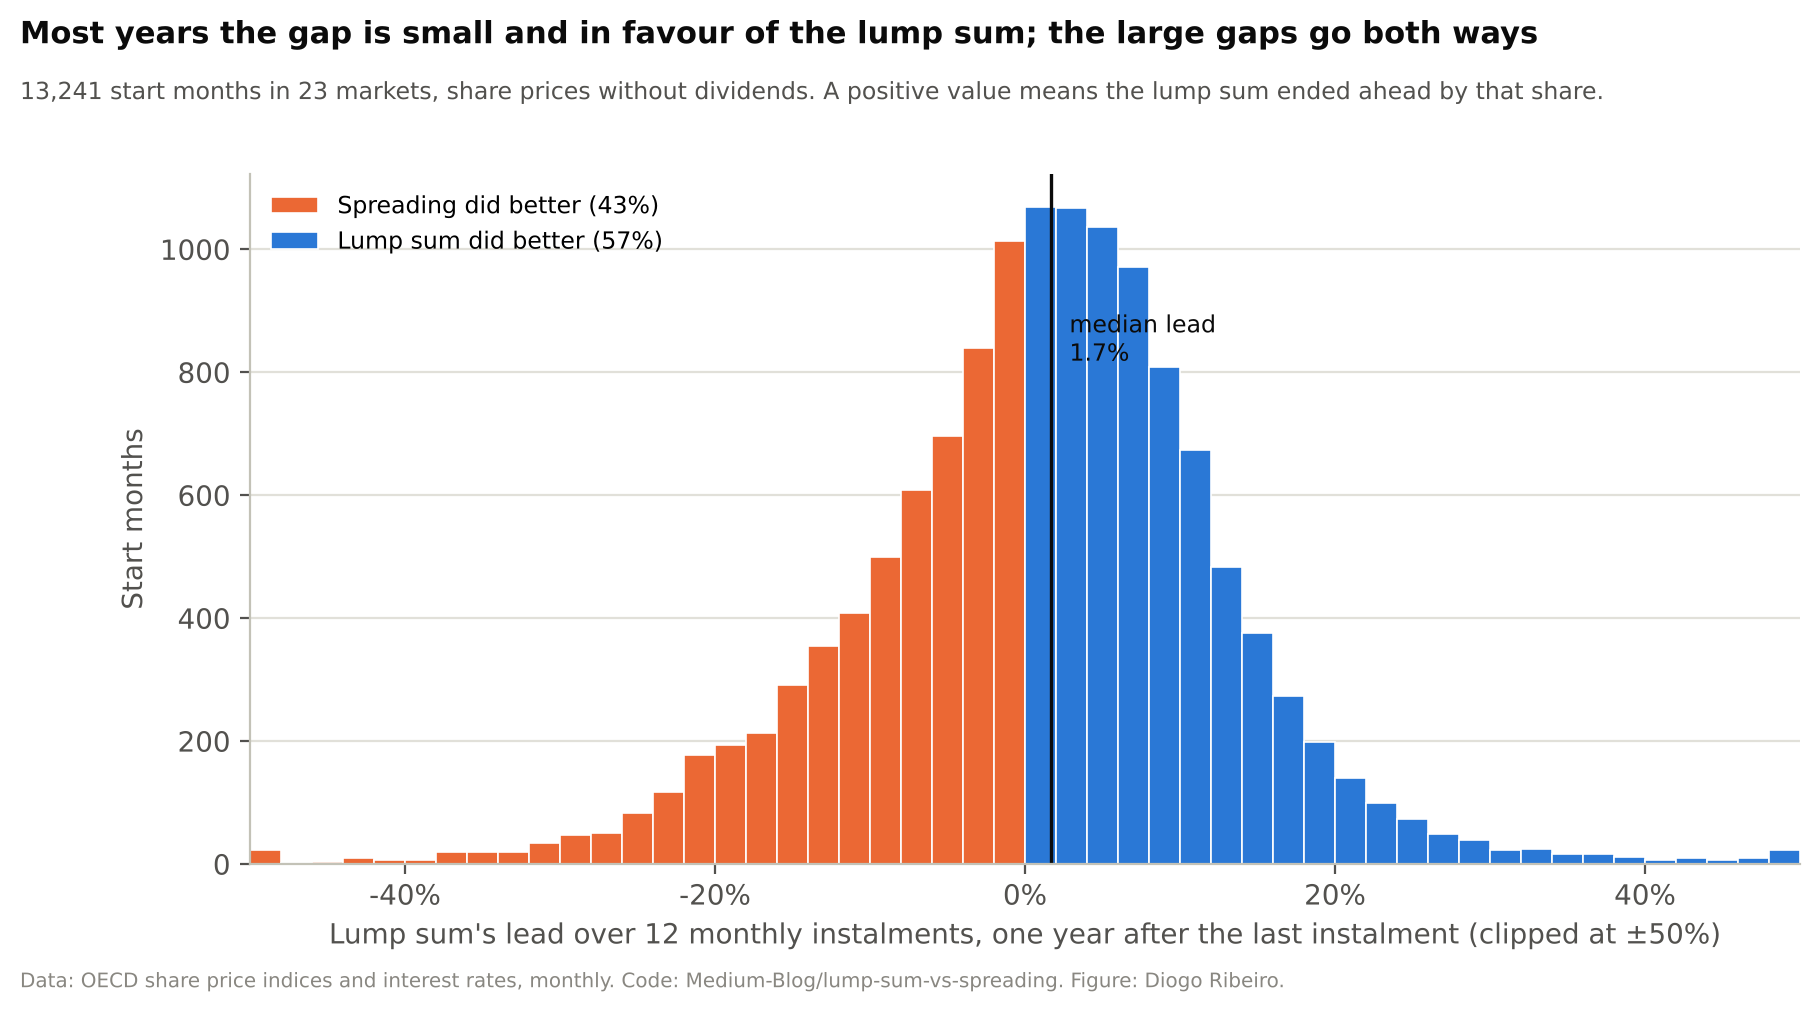
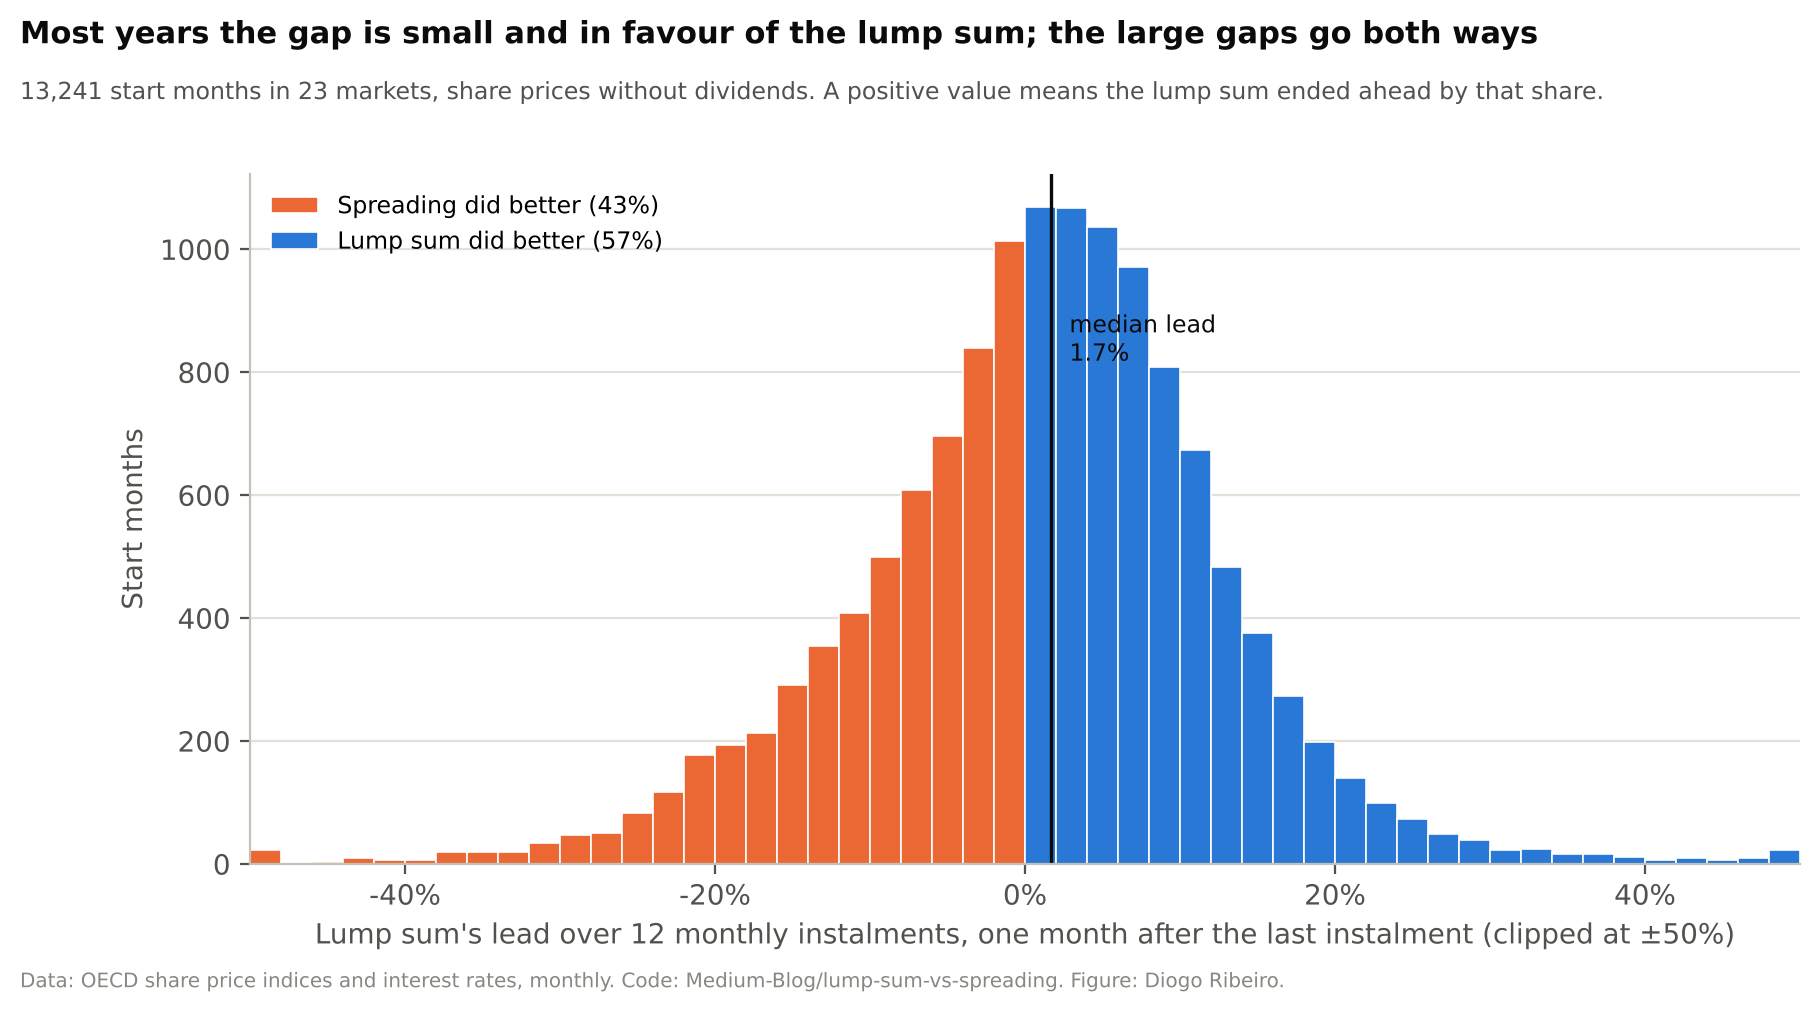
lump-sum-vs-spreading: label the comparison one month after the last instalment

Changed region(s): [[0.1846, 0.919, 0.9538, 0.9496]]

diff --git a/lump-sum-vs-spreading/figures.py b/lump-sum-vs-spreading/figures.py
@@ -83,7 +83,7 @@ def fig1_countries():
     ax.set_ylim(-0.7, len(c) + 0.2)
     percent(ax, "x")
     grid(ax, "x")
-    ax.set_xlabel("Start months in which the lump sum was ahead one year after the last instalment")
+    ax.set_xlabel("Start months in which the lump sum was ahead one month after the last instalment")
     ax.legend(loc="lower right", fontsize=8.5)
     frame(
         fig,
@@ -126,7 +126,7 @@ def fig2_advantage():
     grid(ax)
     percent(ax, "x")
     ax.set_xlim(-0.5, 0.5)
-    ax.set_xlabel("Lump sum's lead over 12 monthly instalments, one year after the last instalment (clipped at ±50%)")
+    ax.set_xlabel("Lump sum's lead over 12 monthly instalments, one month after the last instalment (clipped at ±50%)")
     ax.set_ylabel("Start months")
     ax.legend(loc="upper left", fontsize=8.5)
     frame(
@@ -164,13 +164,13 @@ def fig3_outcomes():
     ax.set_xlim(0.5, 1.7)
     ax.set_ylim(0, 1)
     percent(ax)
-    ax.set_xlabel("Value one year after the last instalment, windfall = 1")
+    ax.set_xlabel("Value one month after the last instalment, windfall = 1")
     ax.set_ylabel("Share of start months with a value below this")
     ax.legend(loc="lower right", fontsize=8.5)
     frame(
         fig,
         "What spreading buys: fewer bad years, paid for with fewer good ones",
-        "Distribution of the windfall's value one year after the last instalment, 13,241 start months in 23 markets,"
+        "Distribution of the windfall's value one month after the last instalment, 13,241 start months in 23 markets,"
         " share prices\nwithout dividends. A curve further left at the bottom means more bad outcomes.",
     )
     fig.savefig(FIG / "fig3_outcomes.png")

diff --git a/lump-sum-vs-spreading/lump_numbers.py b/lump-sum-vs-spreading/lump_numbers.py
@@ -341,7 +341,7 @@ def main():
         )
 
     # ------------------------------------------------------------------------------------------------ 8
-    head("8. Episodes: a windfall of 100,000 in a given month, one year after the last instalment")
+    head("8. Episodes: a windfall of 100,000 in a given month, one month after the last instalment")
     index = {(o.country, lc.label(o.start)): o for o in base}
     for e in EPISODES:
         parts = []
